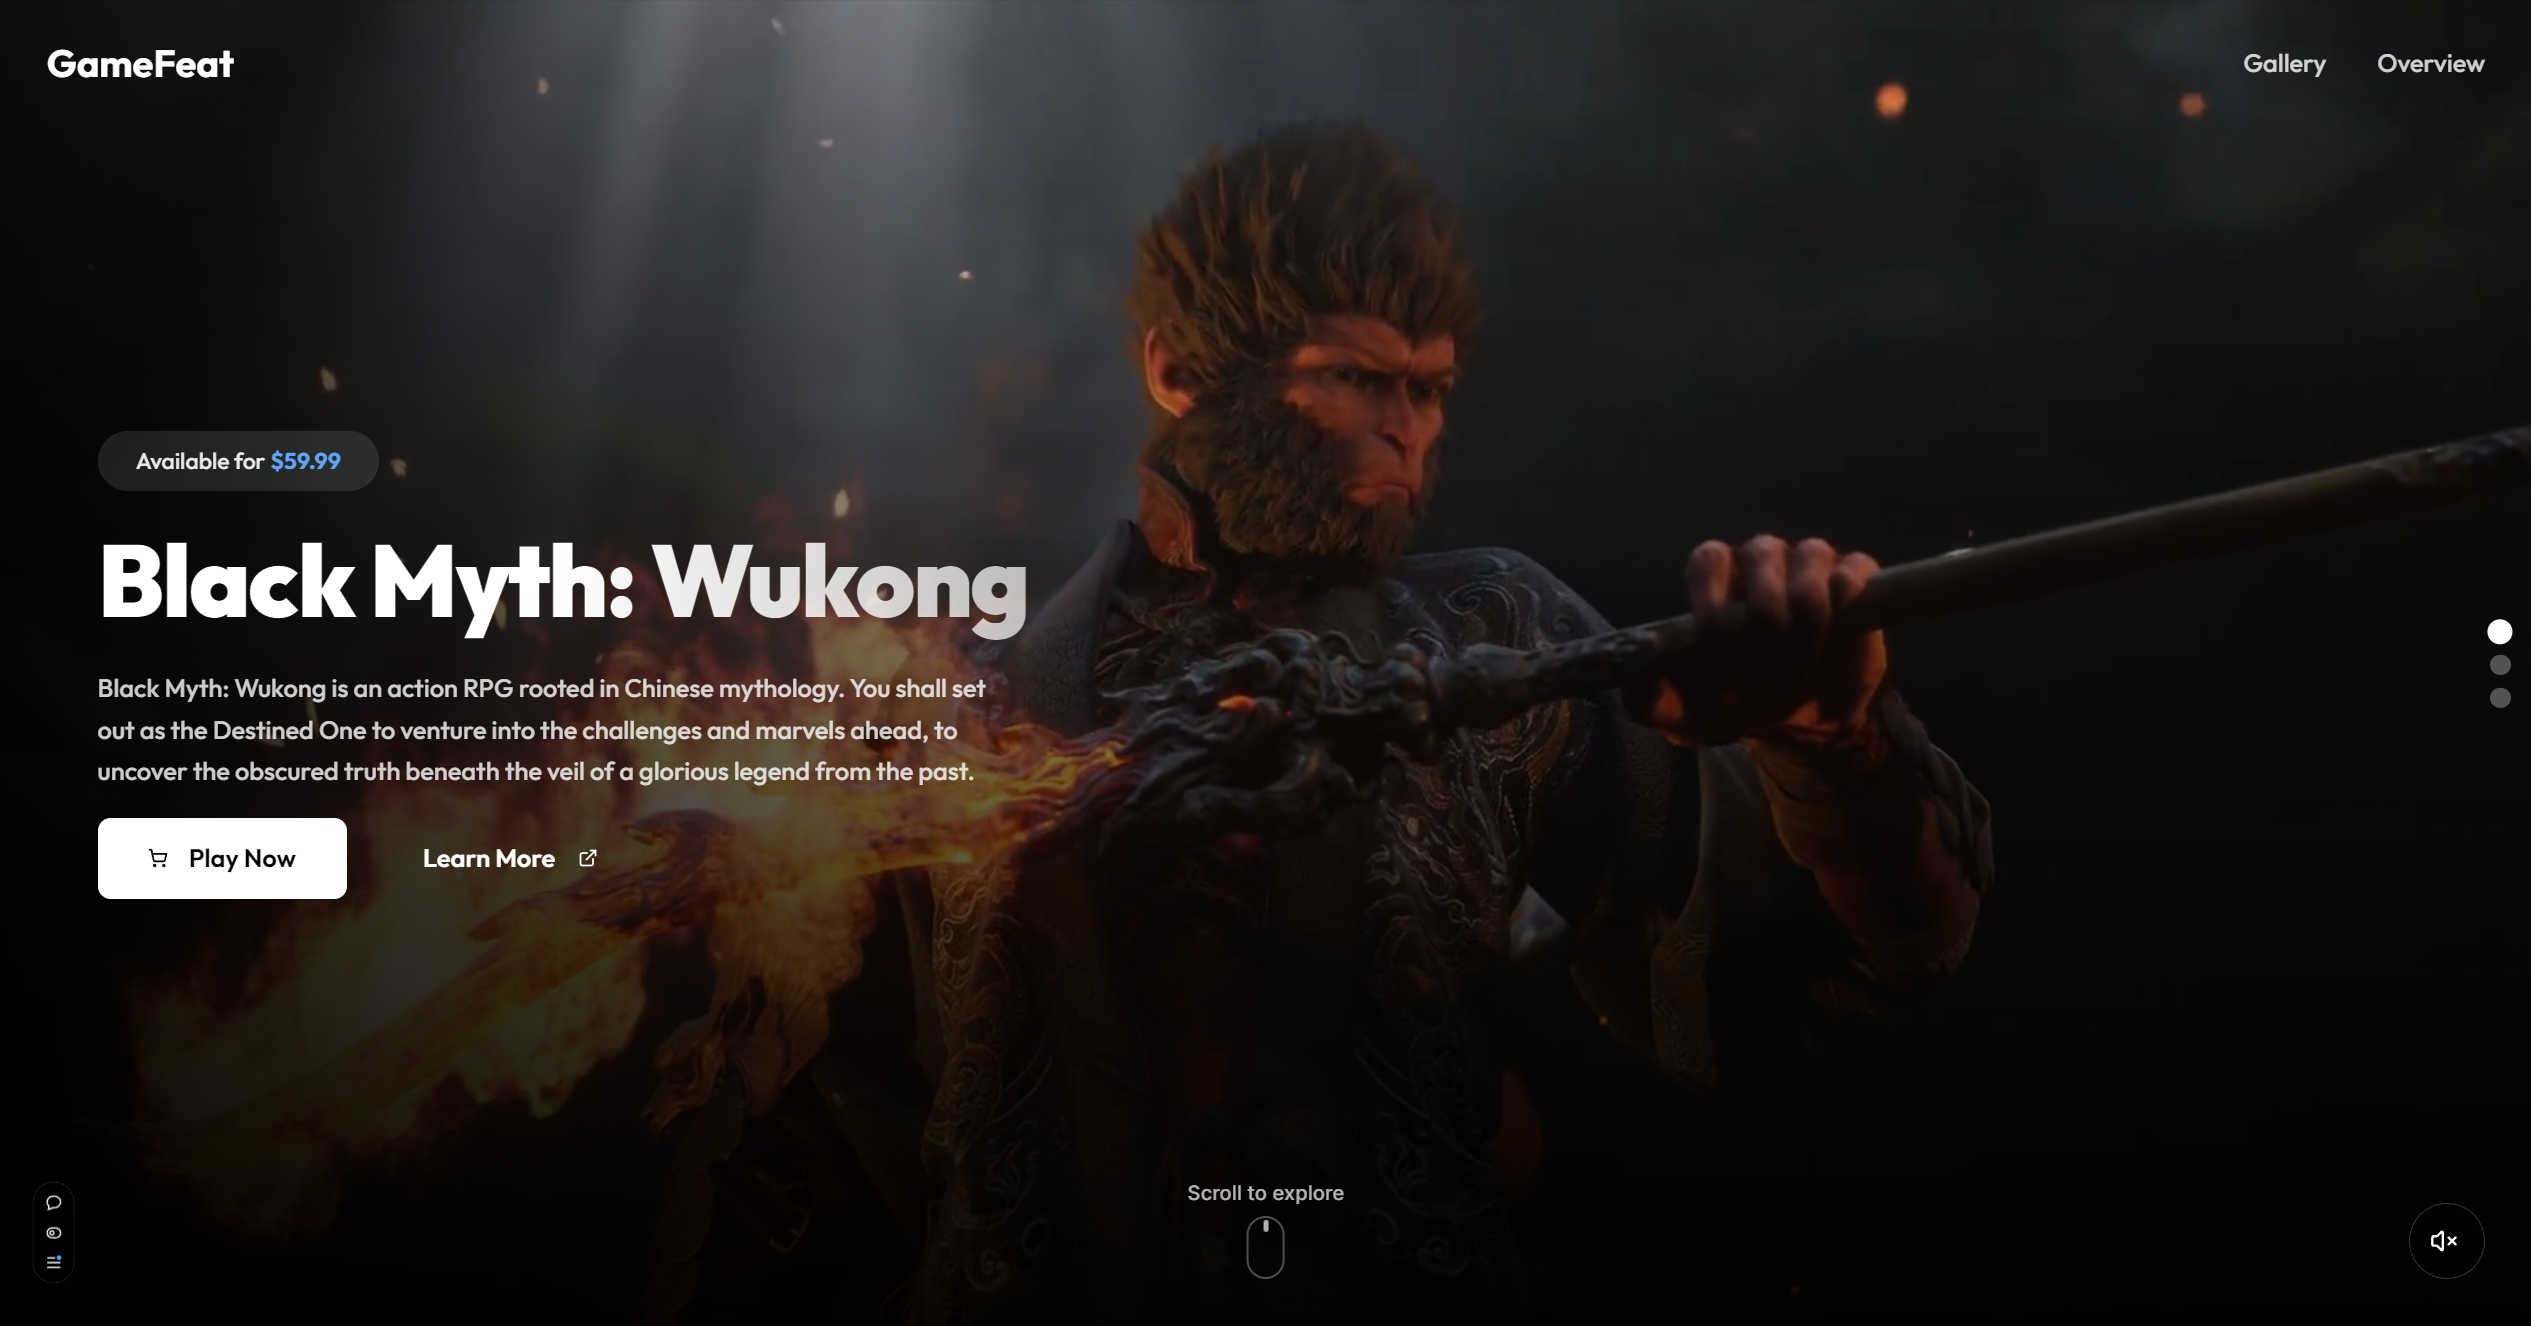
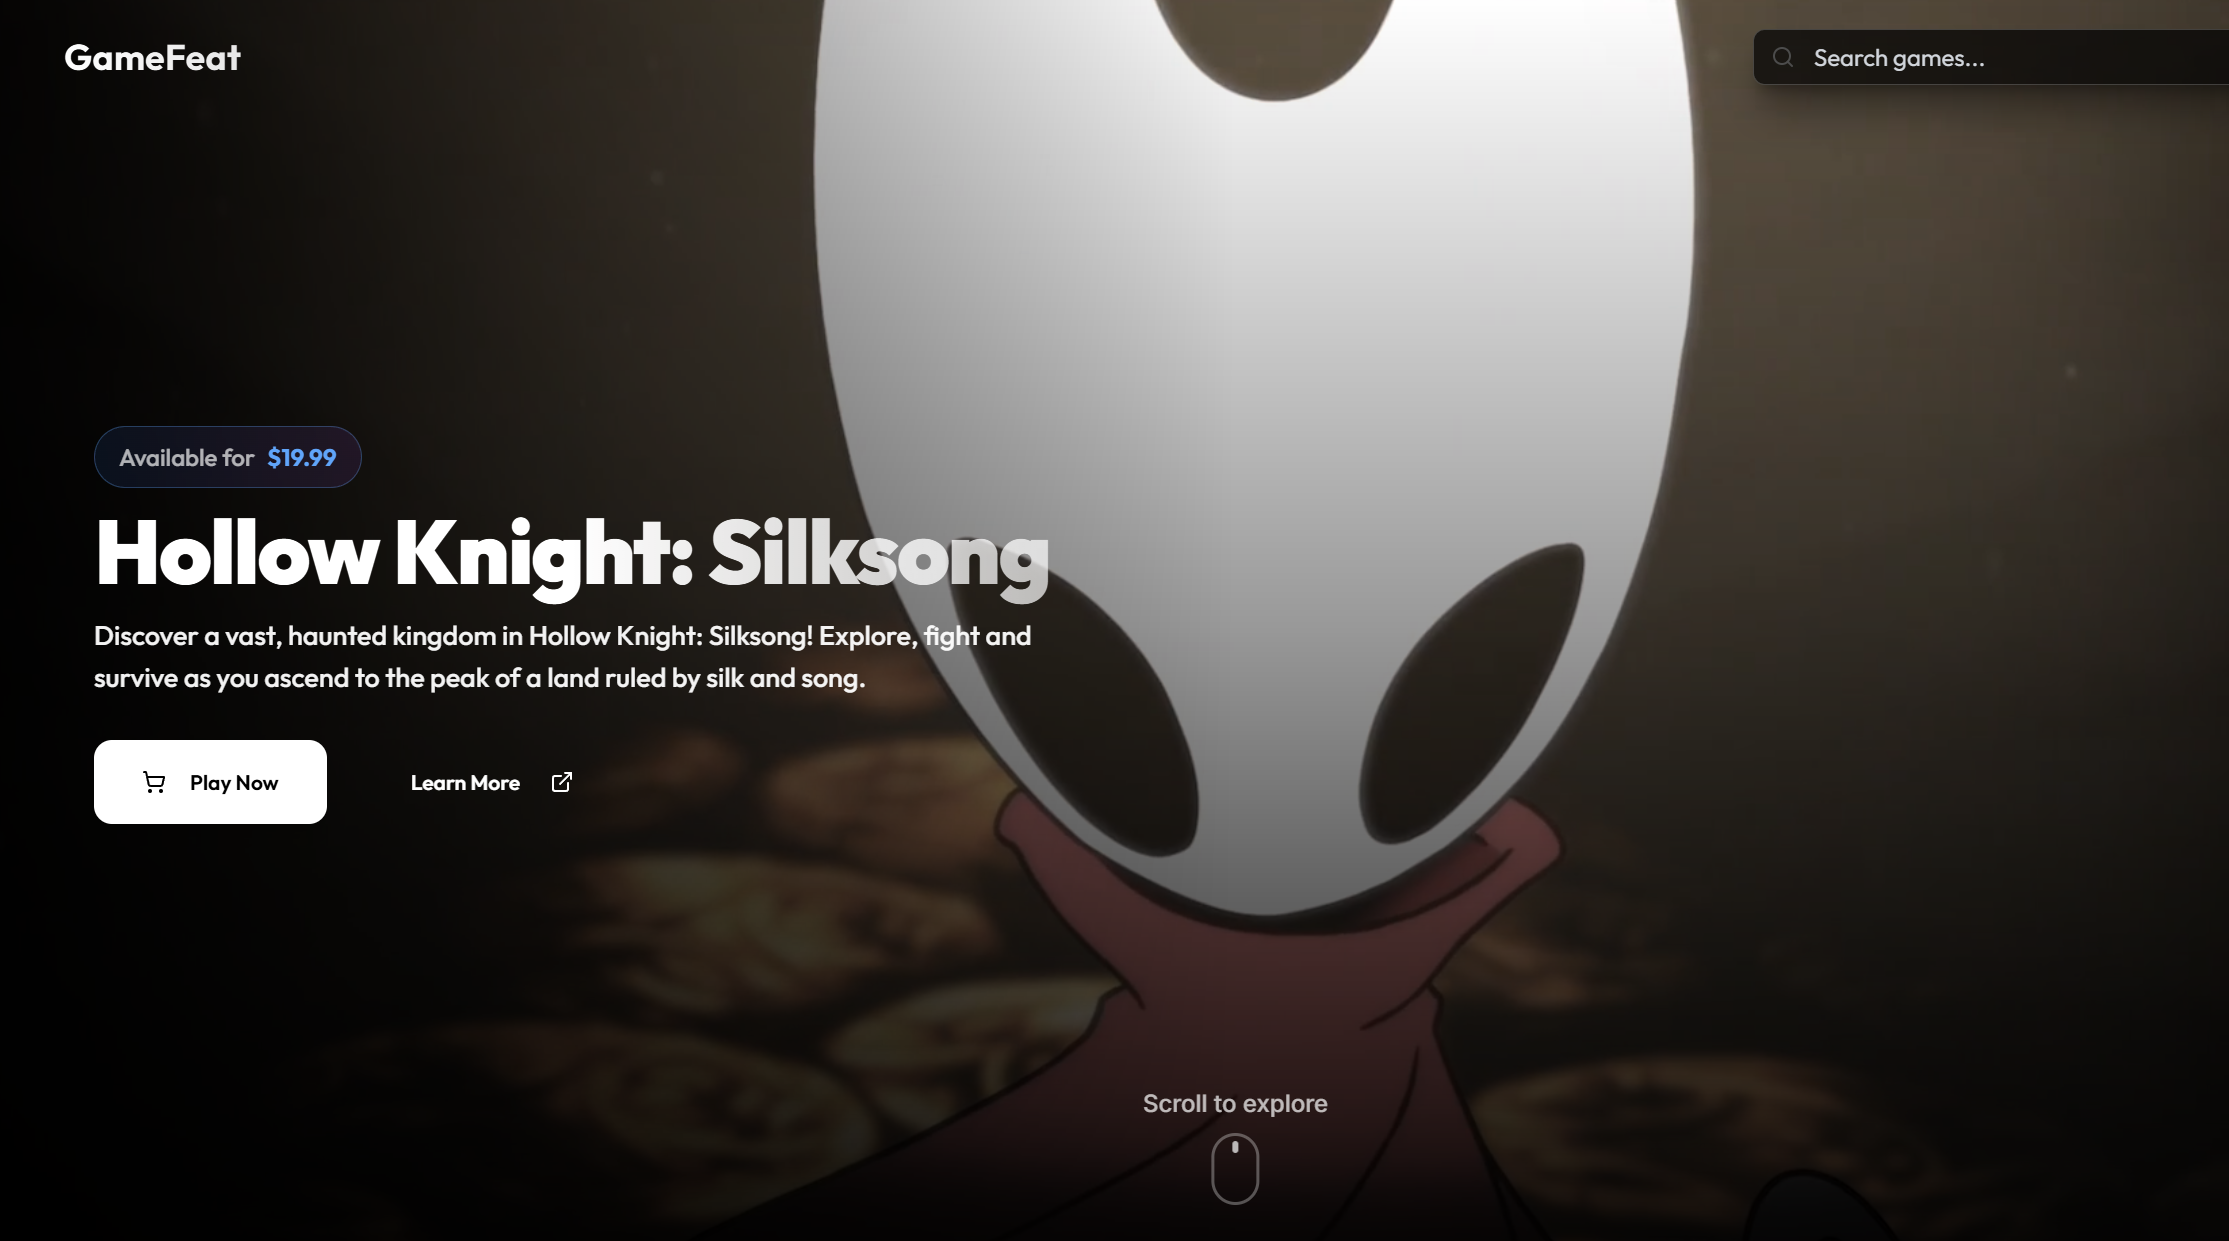
gamefeat

diff --git a/src/data/projects.js b/src/data/projects.js
@@ -15,6 +15,11 @@ import flowmoraSchedules from "../assets/projects/flowmora/schedules.png";
 import flowmoraGoals from "../assets/projects/flowmora/goals.png";
 import flowmoraSettings from "../assets/projects/flowmora/settings.jpg";
 
+// GameFeat feature images
+import gamefeatHero from "../assets/projects/gamefeat/hero.png";
+import gamefeatScreenshots from "../assets/projects/gamefeat/screenshots.png";
+import gamefeatFooter from "../assets/projects/gamefeat/footer.png";
+
 export const projectCategories = [
   { id: "all", name: "All Projects" },
   { id: "games", name: "Game Development" },
@@ -71,14 +76,31 @@ export const projectsData = [
     id: "gamefeat",
     name: "GameFeat",
     categories: ["web"],
-    description: "Features a different game on every refresh.",
+    description: "Showcase a different game with every refresh.",
     techs: ["Next.js", "Tailwind", "Upstash"],
     demo_link: "https://gamefeat.vercel.app/",
     cover: gamefeat,
     role: "Full-Stack Developer",
     year: "2024",
     inspiration:
-      "As an indie game enthusiast, I noticed how hard it is to discover hidden gems. GameFeat was born from the idea of serendipity - every refresh brings a new surprise, just like stumbling upon a great game by chance.",
+      "As an indie game enthusiast, I noticed how hard it is to discover hidden gems. With GameFeat, I wanted to showcase games in an original way, something that makes you want to play the game.",
+    features: [
+      {
+        image: gamefeatHero,
+        title: "First Impression",
+        description: "Every refresh, a new game to discover.",
+      },
+      {
+        image: gamefeatScreenshots,
+        title: "See It in Action",
+        description: "Screenshots that sell the experience.",
+      },
+      {
+        image: gamefeatFooter,
+        title: "Know Before You Play",
+        description: "Price, stats, and a direct link to Steam.",
+      },
+    ],
   },
   {
     id: "juicy",
